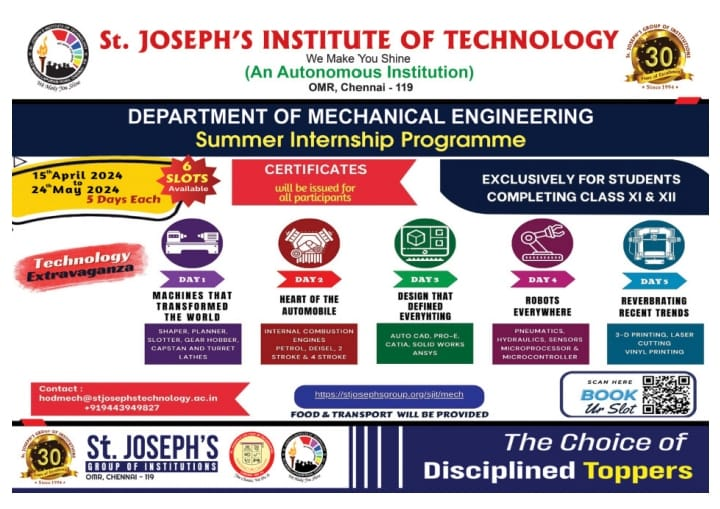
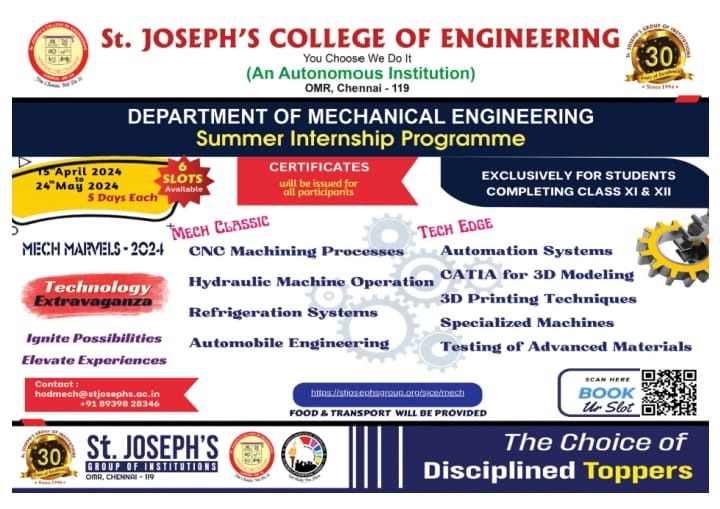
poster and contact changed

diff --git a/src/Components/Contact.js b/src/Components/Contact.js
@@ -27,7 +27,7 @@ const Contact = () => {
           Mail
         </button>
       </div>
-      <h2>Call us: +91 94439 49827</h2>      
+      <h2>Call us: +91 89398 28346</h2>      
     </div>
   );
 };
